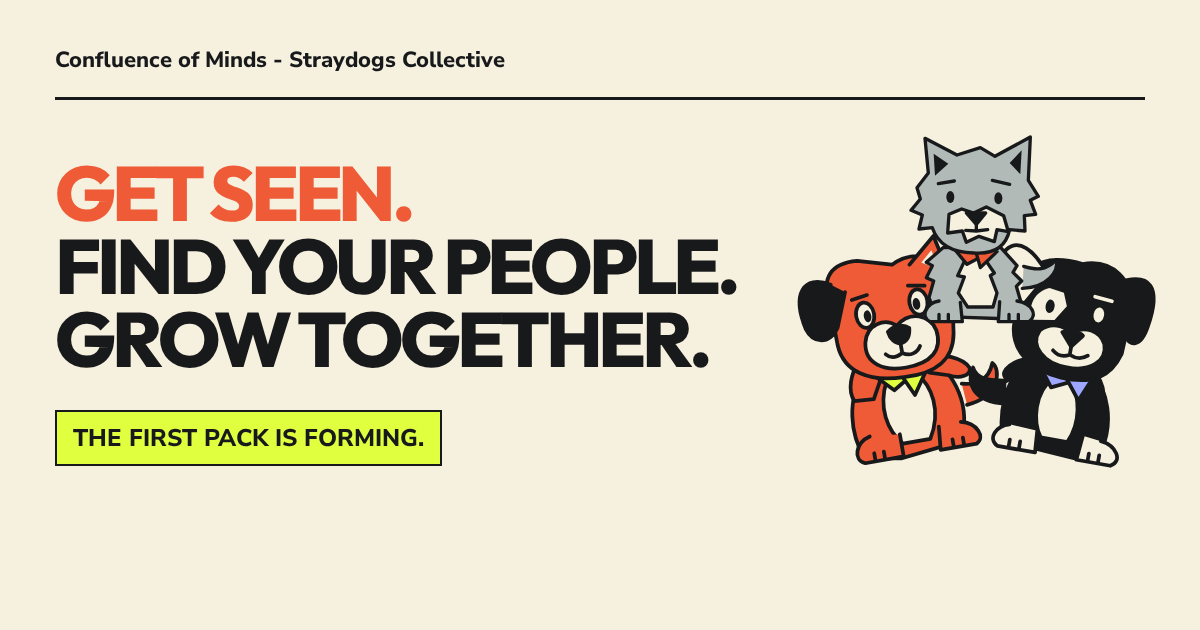
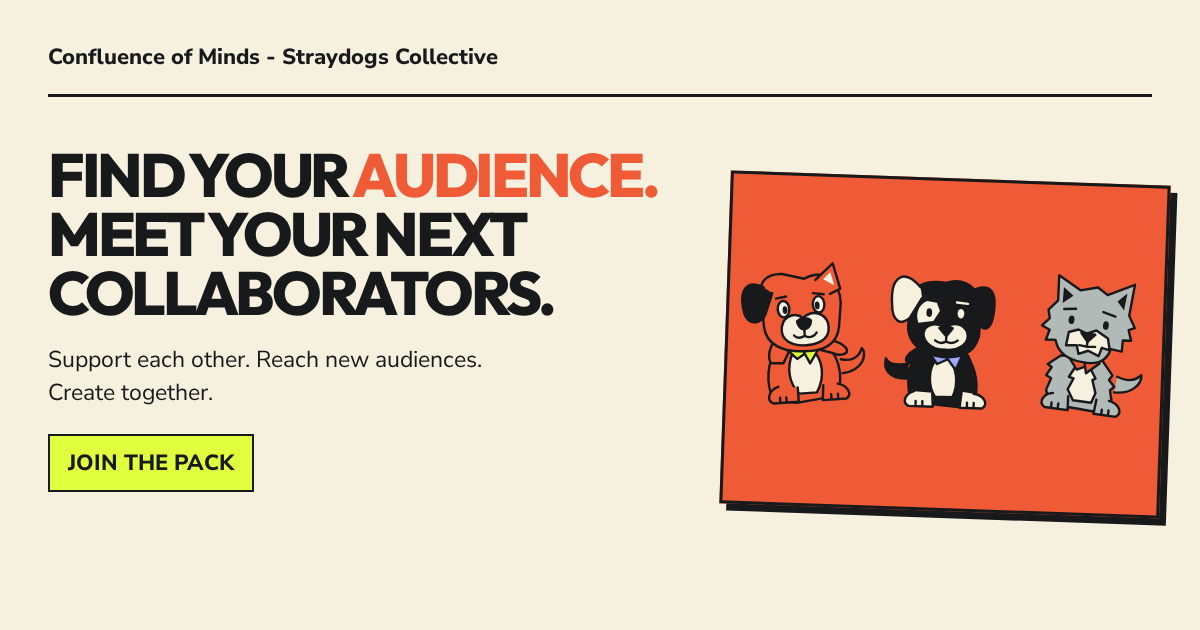
Add a pack-led Straydogs hero with a clear creator invitation

diff --git a/straydogs/index.html b/straydogs/index.html
@@ -7,24 +7,24 @@
   <meta name="theme-color" content="#f6f0df">
   <meta name="referrer" content="strict-origin-when-cross-origin">
   <meta http-equiv="Content-Security-Policy" content="default-src 'none'; style-src 'self'; font-src 'self'; script-src 'self'; img-src 'self'; form-action 'none'; base-uri 'none'">
-  <title>Confluence of Minds - Straydogs Collective | Get seen. Find your people. Grow together.</title>
-  <meta name="description" content="Confluence of Minds - Straydogs Collective. Independent creators discovering, sharing and making things together. The first pack is forming. Join by email.">
+  <title>Confluence of Minds - Straydogs Collective | Find your audience. Create together.</title>
+  <meta name="description" content="Confluence of Minds - Straydogs Collective. Join a collective of independent creators who support each other’s work, reach new audiences and create together.">
   <link rel="canonical" href="https://confluenceofminds.com/straydogs/">
   <meta property="og:type" content="website">
   <meta property="og:locale" content="en_US">
   <meta property="og:site_name" content="Confluence of Minds - Straydogs Collective">
   <meta property="og:title" content="Confluence of Minds - Straydogs Collective">
-  <meta property="og:description" content="Get seen. Find your people. Grow together. Independent creators discovering, sharing and making things together.">
+  <meta property="og:description" content="Join a collective of independent creators who support each other’s work, reach new audiences and create together.">
   <meta property="og:url" content="https://confluenceofminds.com/straydogs/">
   <meta property="og:image" content="https://confluenceofminds.com/straydogs/assets/social-card.png">
   <meta property="og:image:width" content="1200">
   <meta property="og:image:height" content="630">
-  <meta property="og:image:alt" content="Confluence of Minds - Straydogs Collective. Get seen. Find your people. Grow together. Independent creators discovering, sharing and making things together.">
+  <meta property="og:image:alt" content="Confluence of Minds - Straydogs Collective. Join a collective of independent creators who support each other’s work, reach new audiences and create together.">
   <meta name="twitter:card" content="summary_large_image">
   <meta name="twitter:title" content="Confluence of Minds - Straydogs Collective">
-  <meta name="twitter:description" content="Get seen. Find your people. Grow together. Independent creators discovering, sharing and making things together.">
+  <meta name="twitter:description" content="Join a collective of independent creators who support each other’s work, reach new audiences and create together.">
   <meta name="twitter:image" content="https://confluenceofminds.com/straydogs/assets/social-card.png">
-  <meta name="twitter:image:alt" content="Confluence of Minds - Straydogs Collective. Get seen. Find your people. Grow together. Independent creators discovering, sharing and making things together.">
+  <meta name="twitter:image:alt" content="Confluence of Minds - Straydogs Collective. Join a collective of independent creators who support each other’s work, reach new audiences and create together.">
   <link rel="icon" href="assets/mark.svg" type="image/svg+xml">
   <link rel="stylesheet" href="assets/fonts.css">
   <link rel="stylesheet" href="style.css">
@@ -32,11 +32,11 @@
 </head>
 <body>
 <a class="skip" href="#content">Skip to content</a>
-<header class="site-header wrap"><a href="#content" class="wordmark" aria-label="Confluence of Minds - Straydogs Collective"><span class="brand-parent">Confluence of Minds</span><span class="brand-name">STRAYDOGS <span>COLLECTIVE</span><i><svg viewBox="0 0 40 40" aria-hidden="true"><path d="m20 1 4 13 11-8-6 12 11 4-13 4 8 11-12-6-4 11-4-13-11 8 6-12-11-4 13-4-8-11 12 6Z"/></svg></i></span></a><span class="status">FIRST PACK FORMING</span></header>
+<header class="site-header wrap"><a href="#content" class="wordmark" aria-label="Confluence of Minds - Straydogs Collective"><span class="brand-parent">Confluence of Minds</span><span class="brand-name">STRAYDOGS <span>COLLECTIVE</span><i><svg viewBox="0 0 40 40" aria-hidden="true"><path d="m20 1 4 13 11-8-6 12 11 4-13 4 8 11-12-6-4 11-4-13-11 8 6-12-11-4 13-4-8-11 12 6Z"/></svg></i></span></a></header>
 <main id="content">
 <section class="hero wrap" aria-labelledby="hero-title">
-<div><p class="eyebrow">For independent creators</p><h1 id="hero-title"><span>GET SEEN.</span><br>FIND YOUR PEOPLE.<br>GROW TOGETHER.</h1></div>
-<div class="hero-intro"><p>Small audience. A lot to share.<br>Find a pack that gets your work.</p><ul><li><a href="#discover">Discover each other’s work <svg viewBox="0 0 24 24" aria-hidden="true"><path d="M5 5 19 19M5 19h14V5"/></svg></a></li><li><a href="#share">Share what you love <svg viewBox="0 0 24 24" aria-hidden="true"><path d="M5 5 19 19M5 19h14V5"/></svg></a></li><li><a href="#create">Create things together <svg viewBox="0 0 24 24" aria-hidden="true"><path d="M5 5 19 19M5 19h14V5"/></svg></a></li></ul></div>
+<div class="hero-copy"><h1 id="hero-title">FIND YOUR<br><span>AUDIENCE.</span><br>MEET YOUR NEXT<br>COLLABORATORS.</h1><p class="hero-summary">Join a collective of independent creators who support each other’s work, reach new audiences and create together.</p><a class="hero-join join-button" href="#join">JOIN THE PACK <svg viewBox="0 0 24 24" aria-hidden="true"><path d="M6 18 18 6M6 6h12v12"/></svg></a></div>
+<div class="hero-pack" role="img" aria-label="Three different dog characters standing together as a creative pack"><svg class="pack-star" viewBox="0 0 40 40" aria-hidden="true"><path d="m20 1 4 13 11-8-6 12 11 4-13 4 8 11-12-6-4 11-4-13-11 8 6-12-11-4 13-4-8-11 12 6Z"/></svg><div class="pack-dogs"><img src="assets/dog-ochre.svg" alt="" width="300" height="330"><img src="assets/dog-ink.svg" alt="" width="300" height="330"><img src="assets/dog-scruff.svg" alt="" width="300" height="330"></div></div>
 </section>
 <section class="benefit discover wrap" id="discover" aria-labelledby="discover-title">
 <div class="benefit-copy"><span class="section-number">01</span><h2 id="discover-title">Discover<br> each other’s<br> <em>work.</em></h2><p>Find people who get what you make.</p></div>
@@ -72,7 +72,7 @@
 <div class="together-heart"><svg viewBox="0 0 32 32" aria-hidden="true"><path d="M16 27 4 15C-4 5 9-2 16 7 23-2 36 5 28 15Z"/></svg></div>
 </div>
 </section>
-<section class="join-section" id="join"><div class="wrap join-layout"><div><p class="eyebrow">The first pack starts with people like you.</p><h2>COME AS<br> <em>YOU ARE.</em></h2></div><div class="join-copy"><p>Introduce yourself by email.<br>We look for shared interests and make the first introductions.</p><a class="join-button" href="mailto:thomas@confluenceofminds.com?subject=Confluence%20of%20Minds%20-%20Straydogs%20Collective%20%7C%20Introduction&amp;body=Hello%20Thomas%2C%0A%0AMy%20name%20/%20creative%20name%3A%0A%0AOne%20link%20to%20my%20work%3A%0A%0AWhat%20I%20create%3A%0A%0AWhat%20I%20would%20love%20to%20share%20or%20discover%20%28optional%29%3A%0A%0AThank%20you%21">JOIN THE FIRST PACK <svg viewBox="0 0 24 24" aria-hidden="true"><path d="M6 18 18 6M6 6h12v12"/></svg></a></div></div></section>
+<section class="join-section" id="join"><div class="wrap join-layout"><div><h2>GROW YOUR<br> <em>CREATIVE CIRCLE.</em></h2></div><div class="join-copy"><p>Introduce yourself by email.<br>We look for shared interests and introduce you to other creators.</p><a class="join-button" href="mailto:thomas@confluenceofminds.com?subject=Confluence%20of%20Minds%20-%20Straydogs%20Collective%20%7C%20Introduction&amp;body=Hello%20Thomas%2C%0A%0AMy%20name%20/%20creative%20name%3A%0A%0AOne%20link%20to%20my%20work%3A%0A%0AWhat%20I%20create%3A%0A%0AWhat%20I%20would%20love%20to%20share%20or%20discover%20%28optional%29%3A%0A%0AThank%20you%21">JOIN THE PACK <svg viewBox="0 0 24 24" aria-hidden="true"><path d="M6 18 18 6M6 6h12v12"/></svg></a></div></div></section>
 </main>
 <footer class="footer wrap"><span>Confluence of Minds - Straydogs Collective</span><a href="https://confluenceofminds.com/">About Confluence of Minds</a></footer>
 </body></html>

diff --git a/straydogs/style.css b/straydogs/style.css
@@ -21,3 +21,10 @@
 @media(max-width:440px){.copy-two{top:44%}.share-copy .zine strong{display:none}.share-copy .zine svg{margin-top:10%;width:100%}.share-original .zine strong{font-size:16px}}
 
 @media(max-width:440px){.share-original{top:46%;left:24%}.signal-share{left:9%;top:75%}}
+
+/* A real pack-led hero: the invitation and benefit are visible before scrolling. */
+.hero{grid-template-columns:1fr 1.12fr;align-items:center;gap:58px;padding:44px 0 52px}.hero h1{font-size:clamp(42px,4.5vw,63px);line-height:.98;letter-spacing:-.055em}.hero-summary{font-size:19px;line-height:1.5;max-width:520px;margin:24px 0}.hero-join{background:var(--ink);color:var(--cream);font-size:16px;box-shadow:5px 5px 0 var(--orange);padding:18px 23px}.hero-pack{position:relative;width:100%;aspect-ratio:1.45;background:var(--orange);border:2px solid var(--ink);box-shadow:9px 9px 0 var(--ink);transform:rotate(1.5deg);overflow:hidden;isolation:isolate}.pack-dogs{position:absolute;left:2%;right:2%;bottom:16%;display:flex;align-items:flex-end}.pack-dogs img{width:36%;height:auto;margin:0 -1.6%;transform-origin:50% 95%;filter:drop-shadow(2px 5px 0 #18191b18)}.pack-dogs img:nth-child(1){transform:rotate(-6deg);z-index:2}.pack-dogs img:nth-child(2){transform:translateY(-3%) rotate(1deg);z-index:1}.pack-dogs img:nth-child(3){transform:rotate(6deg);z-index:2}.pack-star{position:absolute;left:43%;top:5%;width:16%;height:auto;fill:var(--acid);stroke:var(--ink);stroke-width:1;transform:rotate(-9deg)}.join-section h2{font-size:clamp(46px,4.6vw,65px)}
+@media(max-width:1100px){.hero{gap:34px;grid-template-columns:1fr 1.05fr}.hero h1{font-size:clamp(37px,4.3vw,48px)}.hero-summary{font-size:18px;line-height:1.45}.hero-pack{aspect-ratio:1.2}.pack-dogs{bottom:24%}.pack-star{top:9%}}
+@media(max-width:800px){.site-header{min-height:90px;padding:20px 0}.hero{display:flex;flex-direction:column;align-items:stretch;padding:30px 0 38px;gap:30px}.hero-copy{max-width:600px}.hero h1{font-size:clamp(38px,7.5vw,58px);line-height:1}.hero-summary{font-size:18px;line-height:1.45;margin:20px 0 23px;max-width:550px}.hero-pack{max-width:620px;aspect-ratio:2.08;align-self:center;box-shadow:5px 5px 0}.pack-dogs{bottom:3%;left:2%;right:2%}.pack-dogs img{width:35%;margin:0 -1.2%}.pack-star{width:12%;left:45%;top:1%}.hero-join{font-size:16px;padding:17px 21px}.join-section h2{font-size:50px}}
+@media(max-width:440px){.hero{gap:27px;padding-top:27px}.hero h1{font-size:clamp(32px,9.9vw,39px)}.hero-summary{font-size:18px;line-height:1.43}.hero-pack{transform:rotate(1deg)}.pack-star{display:none}.join-section h2{font-size:43px;line-height:1.02}.hero-join{font-size:16px}}
+@media(max-width:350px){.hero h1{font-size:32px}.hero-summary{font-size:17px}.hero-join{font-size:15px}.join-section h2{font-size:38px}}

diff --git a/straydogs/README.md b/straydogs/README.md
@@ -2,4 +2,4 @@
 
 Static English landing at https://confluenceofminds.com/straydogs/.
 
-Three original illustrated scenes explain discovery, voluntary recommendation and collaboration. Motion plays once on entering a scene and settles within 4.8 seconds. Reduced-motion and no-JavaScript visitors receive the complete static composition. Self-hosted fonts and original SVG artwork; no tracking, backend, forms, accounts or automatic submission. The owner-approved email CTA opens the visitor’s mail app. Publication uses the existing GitHub Pages flow only.
+A pack-led visual hero explains the offer and links to the email introduction. Three original illustrated scenes explain discovery, voluntary recommendation and collaboration. Motion plays once on entering a scene and settles within 4.8 seconds. Reduced-motion and no-JavaScript visitors receive the complete static composition. Self-hosted fonts and original SVG artwork; no tracking, backend, forms, accounts or automatic submission. The owner-approved email CTA opens the visitor’s mail app. Publication uses the existing GitHub Pages flow only.
